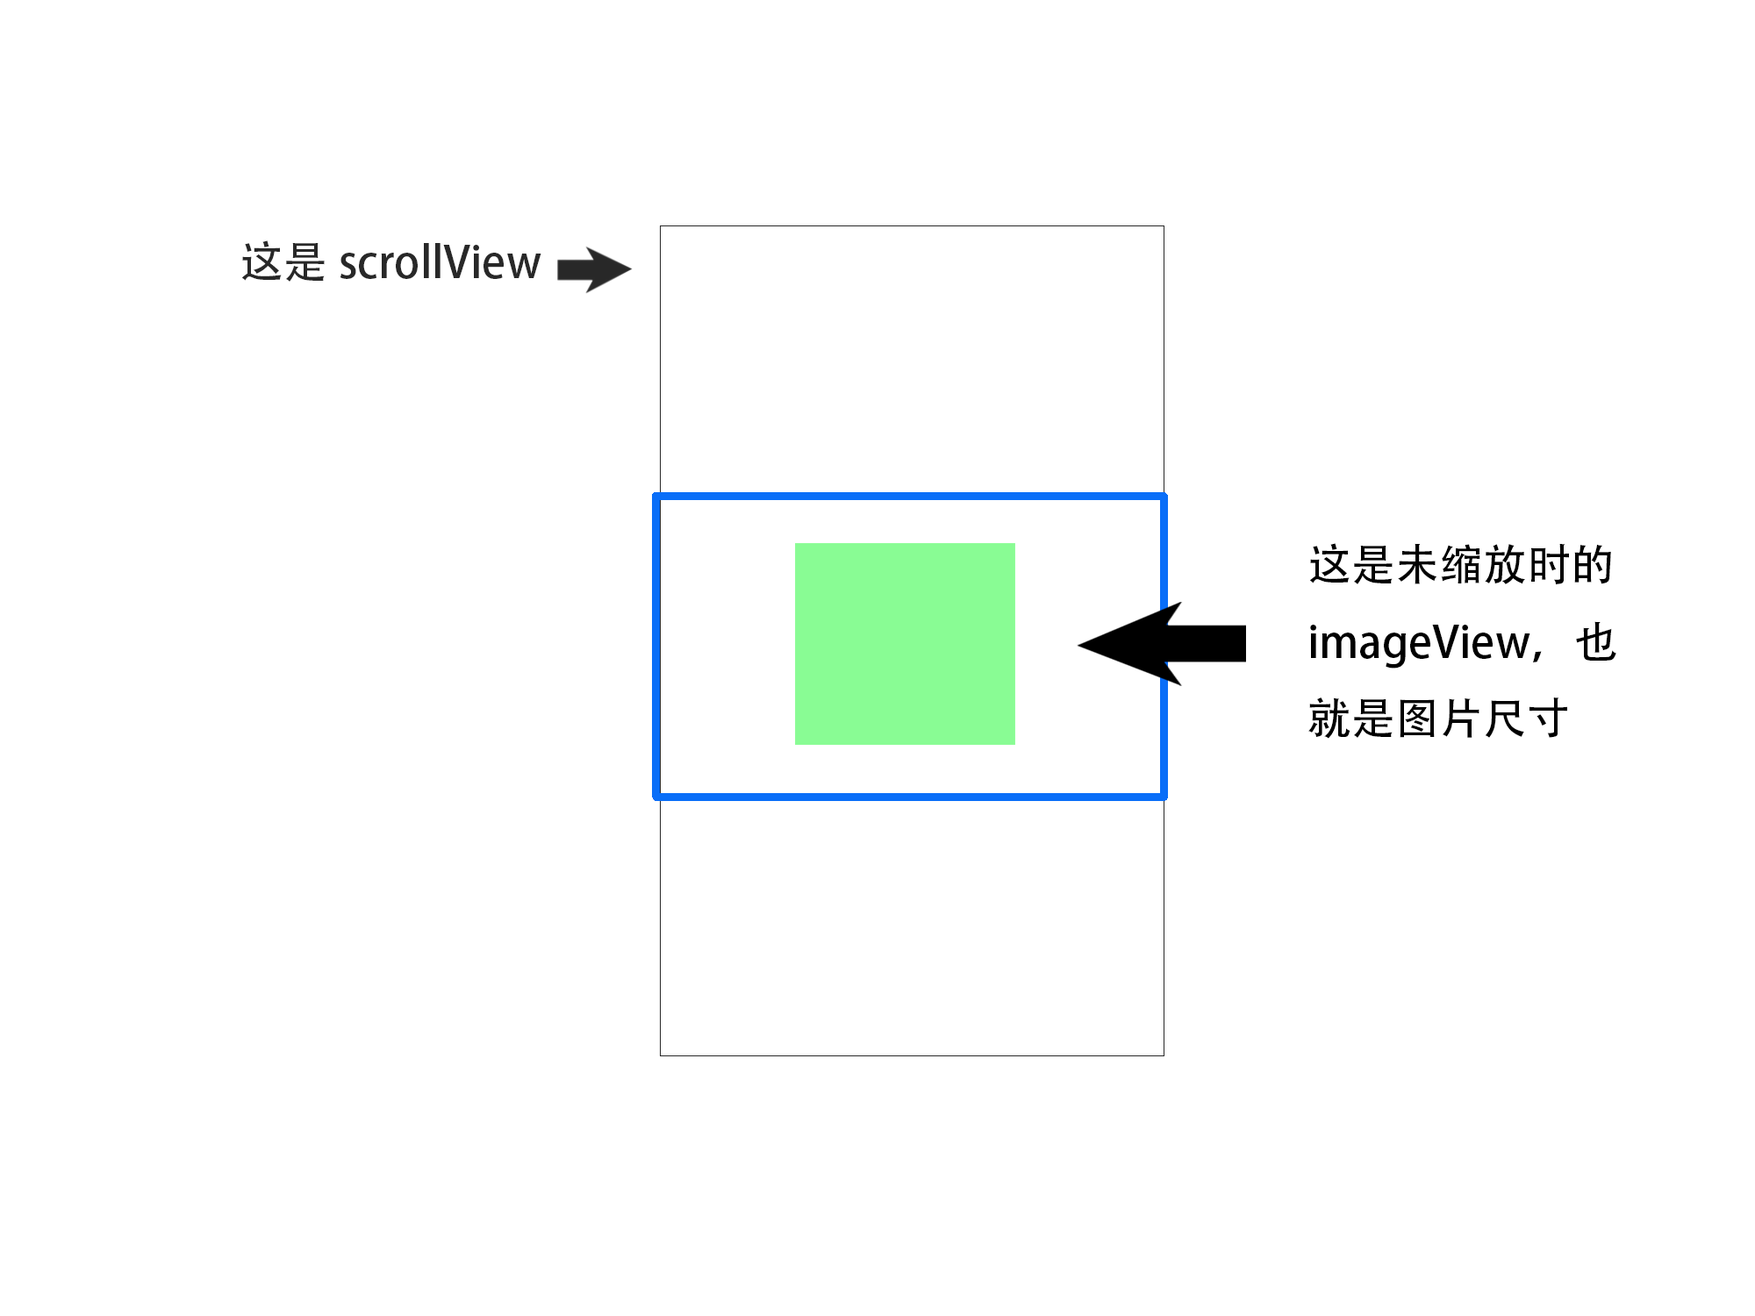
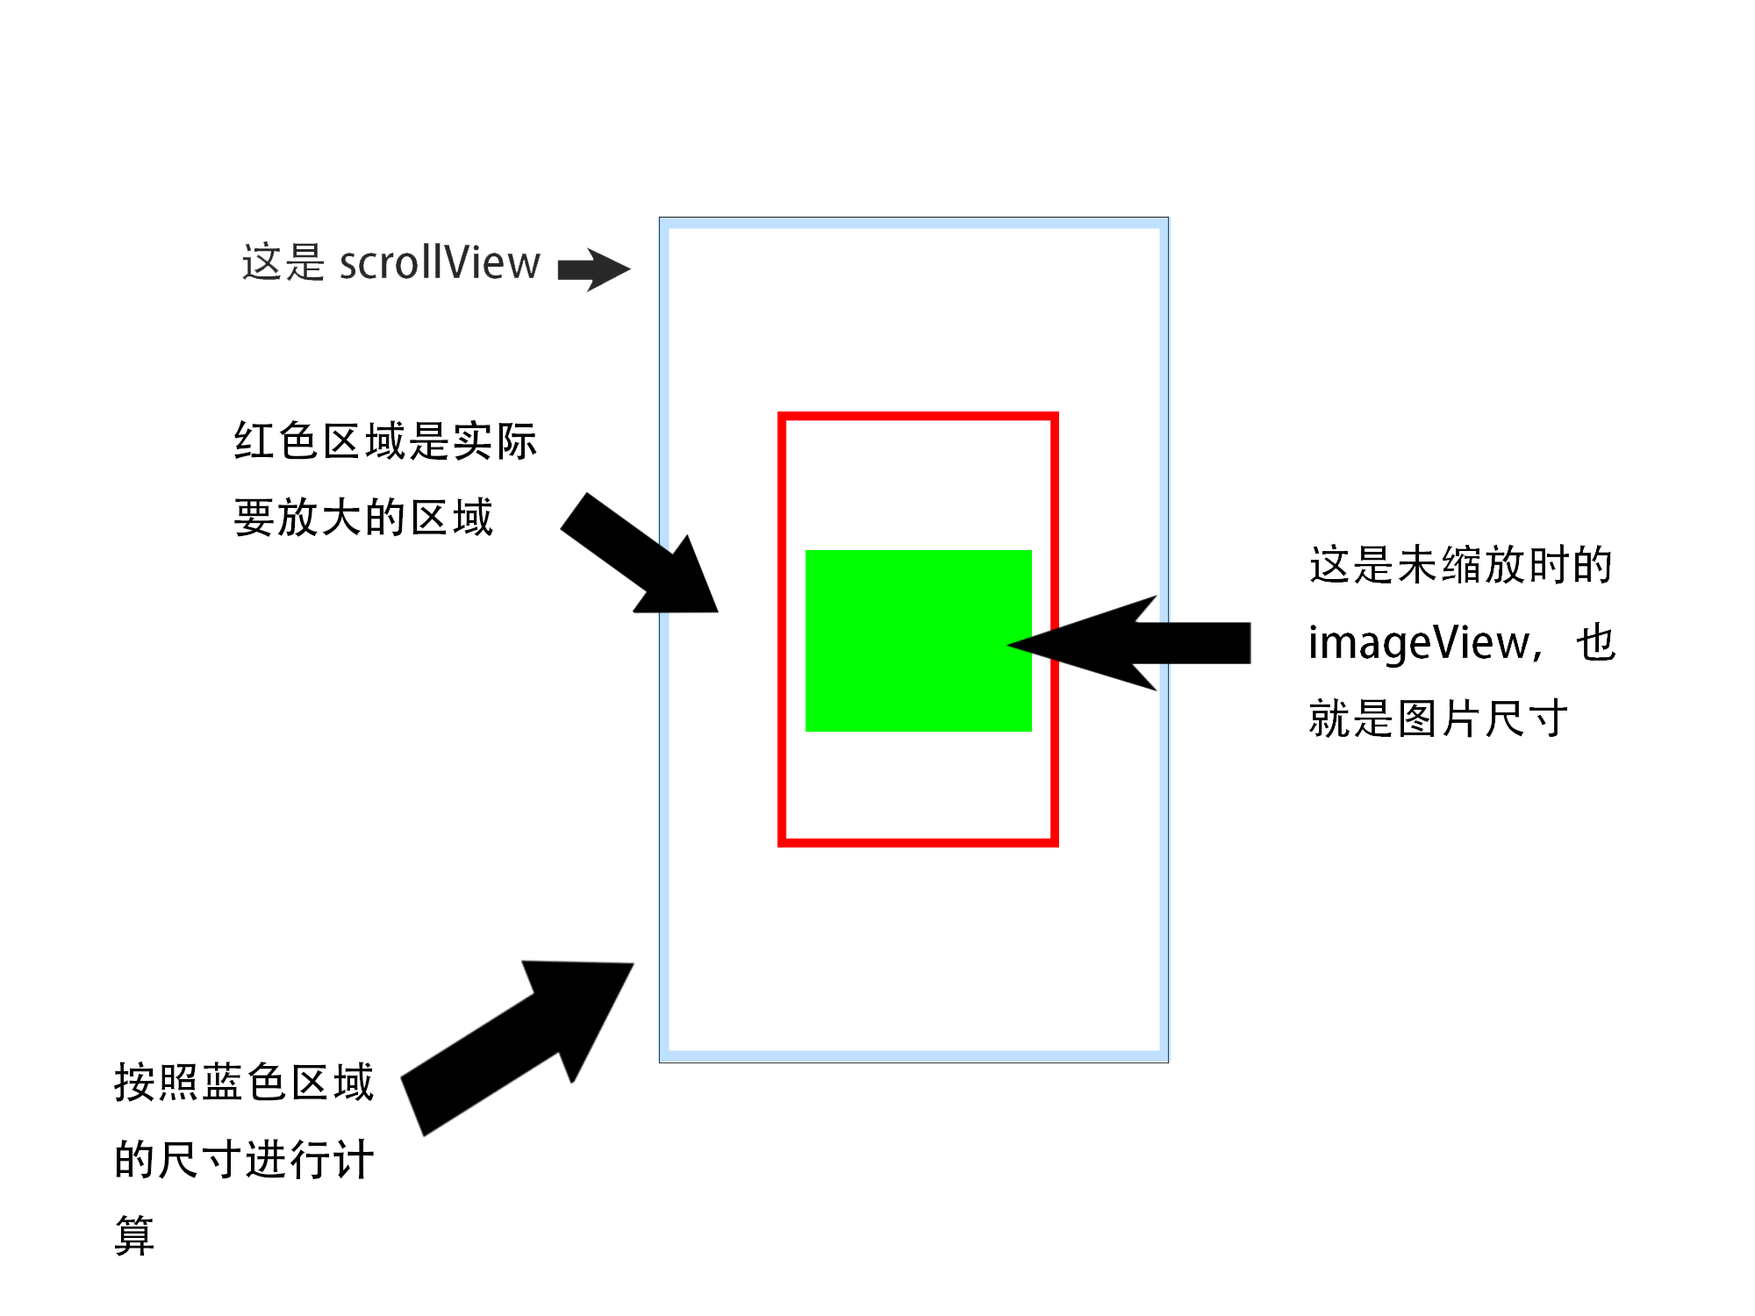
修改文章中的错误

diff --git a/_site/技术/2016/08/02/UIScrollview中的双击图片放大-zoomToRect.html b/_site/技术/2016/08/02/UIScrollview中的双击图片放大-zoomToRect.html
@@ -163,11 +163,12 @@
     <span class="k">let</span> <span class="n">position</span> <span class="o">=</span> <span class="n">tap</span><span class="p">.</span><span class="n">locationInView</span><span class="p">(</span><span class="n">imageView</span><span class="p">)</span>
     
     <span class="c1">//5</span>
-    <span class="k">let</span> <span class="n">zoomWidth</span> <span class="o">=</span> <span class="p">(</span><span class="n">image</span><span class="p">.</span><span class="n">size</span><span class="p">.</span><span class="n">width</span> <span class="o">+</span> <span class="n">imageView</span><span class="p">.</span><span class="n">frame</span><span class="p">.</span><span class="n">minX</span> <span class="o">*</span> <span class="mi">2</span><span class="p">)</span> <span class="o">/</span> <span class="n">zoomRectScale</span>
-    <span class="k">let</span> <span class="n">zoomHeight</span> <span class="o">=</span> <span class="p">(</span><span class="n">image</span><span class="p">.</span><span class="n">size</span><span class="p">.</span><span class="n">height</span> <span class="o">+</span> <span class="n">imageView</span><span class="p">.</span><span class="n">frame</span><span class="p">.</span><span class="n">minY</span> <span class="o">*</span> <span class="mi">2</span><span class="p">)</span> <span class="o">/</span> <span class="n">zoomRectScale</span>
+    <span class="k">let</span> <span class="n">zoomWidth</span> <span class="o">=</span> <span class="n">frame</span><span class="p">.</span><span class="n">width</span> <span class="o">/</span> <span class="n">zoomScale</span> <span class="o">/</span> <span class="n">zoomRectScale</span>
+    <span class="k">let</span> <span class="n">zoomHeight</span> <span class="o">=</span> <span class="n">frame</span><span class="p">.</span><span class="n">height</span> <span class="o">/</span> <span class="n">zoomScale</span> <span class="o">/</span> <span class="n">zoomRectScale</span>
     <span class="c1">//6</span>
-    <span class="k">let</span> <span class="n">zoomX</span> <span class="o">=</span> <span class="n">position</span><span class="p">.</span><span class="n">x</span> <span class="o">-</span> <span class="n">zoomWidth</span> <span class="o">/</span> <span class="mi">2</span> <span class="o">-</span> <span class="n">imageView</span><span class="p">.</span><span class="n">frame</span><span class="p">.</span><span class="n">minX</span> <span class="o">/</span> <span class="n">zoomRectScale</span>
-    <span class="k">let</span> <span class="n">zoomY</span> <span class="o">=</span> <span class="n">position</span><span class="p">.</span><span class="n">y</span> <span class="o">-</span> <span class="n">zoomHeight</span> <span class="o">/</span> <span class="mi">2</span> <span class="o">-</span> <span class="n">imageView</span><span class="p">.</span><span class="n">frame</span><span class="p">.</span><span class="n">minY</span> <span class="o">/</span> <span class="n">zoomRectScale</span>
+    <span class="k">let</span> <span class="n">zoomX</span> <span class="o">=</span> <span class="n">position</span><span class="p">.</span><span class="n">x</span> <span class="o">-</span> <span class="n">zoomWidth</span> <span class="o">/</span> <span class="mi">2</span> <span class="o">-</span> <span class="n">imageView</span><span class="p">.</span><span class="n">frame</span><span class="p">.</span><span class="n">minX</span> <span class="o">/</span> <span class="n">zoomScale</span> <span class="o">/</span> <span class="n">zoomRectScale</span>
+    <span class="k">let</span> <span class="n">zoomY</span> <span class="o">=</span> <span class="n">position</span><span class="p">.</span><span class="n">y</span> <span class="o">-</span> <span class="n">zoomHeight</span> <span class="o">/</span> <span class="mi">2</span> <span class="o">-</span> <span class="n">imageView</span><span class="p">.</span><span class="n">frame</span><span class="p">.</span><span class="n">minY</span> <span class="o">/</span> <span class="n">zoomScale</span> <span class="o">/</span> <span class="n">zoomRectScale</span>
+
     <span class="c1">//7</span>
     <span class="n">zoomToRect</span><span class="p">(</span><span class="bp">CGRect</span><span class="p">(</span><span class="nl">x</span><span class="p">:</span> <span class="n">zoomX</span><span class="p">,</span> <span class="nl">y</span><span class="p">:</span> <span class="n">zoomY</span><span class="p">,</span> <span class="nl">width</span><span class="p">:</span> <span class="n">zoomWidth</span><span class="p">,</span> <span class="nl">height</span><span class="p">:</span> <span class="n">zoomHeight</span><span class="p">),</span> <span class="nl">animated</span><span class="p">:</span> <span class="nb">true</span><span class="p">)</span>
     
@@ -184,15 +185,15 @@
 先看图：
 <img src="/assets/source/2016-8-5-3.png" width="48%" style="float: left; margin-right:2%" />
 <img src="/assets/source/2016-8-5-4.png" width="48%" style="margin-right:2%" />
-先来算宽度，我们把放大的比例设为2（这个比例为我们的变量<code>zoomRectScale</code>，而不是<code>zoomScale</code>），那么假如我们要把图片放大1倍（也就是不变），显示在<code>scrollView</code>中的是整张图片，所以当放大1倍时，这个宽度为图片的宽度；同理，当放大2倍时，显示在<code>scrollView</code>中的部分的宽度为1倍时的1/2，也就是图片宽度的一半，即<code>image.size.width/ zoomRectScale</code>。
-当然这里指的是当图片的尺寸比<code>scrollView</code>大的情况，但是当图片很小的时候，极端一点，一张<code>10*10</code>的图片，当放大两倍时需要把长度为5放大到屏幕宽，显然不是2倍。所以如下图，我们需要把蓝色框部分当做一张图片，也就是说周围的空白也当做图片的一部分，来进行放大，就得到<code>(image.size.width + imageView.frame.minX * 2) / zoomRectScale</code>。高度也是同理
+先来算宽度，我们把放大的比例设为2（这个比例为我们的变量<code>zoomRectScale</code>，而不是<code>zoomScale</code>），那么假如我们要把图片放大1倍（也就是不变），显示在<code>scrollView</code>中的是整张图片，所以当放大1倍时，这个宽度为图片的宽度；同理，当放大2倍时，显示在<code>scrollView</code>中的部分的宽度为1倍时的1/2，也就是图片宽度的一半，即<code>image.size.width / zoomRectScale</code>。
+当然这里指的是当图片的尺寸比<code>scrollView</code>大的情况，但是当图片很小的时候，极端一点，一张<code>10*10</code>的图片，当放大时需要把长度为5（宽度的1/2）放大到屏幕宽，显然不是2倍。所以如下图，我们需要把蓝色框部分当做一张图片来进行放大，就得到<code>(image.size.width + imageView.frame.minX / zoomScale * 2) / zoomRectScale</code>，由于<code>image.size.width</code>等价于<code>imageView.frame.width / zoomScale</code>，所以也就是<code>frame.width / zoomScale / zoomRectScale</code>（<code>frame.width</code>为<code>scrollView</code>的宽度）。高度也是同理
 <img src="/assets/source/2016-8-5-5.png" width="70%" />。</li>
   <li>再来计算<code>origin</code>，现在我们有了中点坐标，也就是<code>position</code>，也有了宽度，那么<code>zoomX</code>就很容易计算，<code>position.x - zoomWidth / 2</code>，<code>zoomY</code>同理。
 但是这里有一个特殊情况，就是当一张图片其长宽都小于<code>scrollView</code>，但是放大后的长或宽大于<code>scrollView</code>长或宽的的时候，放大图片后，图片偏左。如下图（为了方便观察，我把scrollView的长和宽都缩小1/2，这样可以看到超出的部分。右图是双击图片中点放大后的样子）：                       <br />
 <img src="/assets/source/2016-8-5-6.png" width="48%" style="float: left; margin-right:2%" />
 <img src="/assets/source/2016-8-5-7.png" width="48%" style="margin-right:2%" />
 那么这是为什么呢，我也不知道，真的不知道，只是发现当执行<code>zoomScale</code>之后，<code>scrollView</code>的<code>contentOffset</code>会比预期的值增加了<code>imageView.frame.minX</code>，也就是说上方右图的<code>imageView</code>向左距中心偏移的值等于上方左图中<code>imageView</code>的<code>frame.minX</code>，但是我不知道为什么。
-先来看这个问题怎么解决吧，既然<code>scrollView</code>的<code>contentOffset</code>增加了，使得图片向左移动了，就导致图片的左侧的一部分被遮住了，那么我们选取的放大区域就需要向左移动一点，也就是计算<code>zoomX</code>的时候可以减去一个值来调整位置。由于图片在放大后偏移了<code>imageView.frame.minX</code>，而且放大倍数为2，那么在未放大时需要向左调整的距离就为<code>imageView.frame.minX / zoomRectScale</code>，所以就需要<code>position.x - zoomWidth / 2 - imageView.frame.minX / zoomRectScale</code>。<code>zoomY</code>同理</li>
+先来看这个问题怎么解决吧，既然<code>scrollView</code>的<code>contentOffset</code>增加了，使得图片向左移动了，就导致图片的左侧的一部分被遮住了，那么我们选取的放大区域就需要向左移动一点，也就是计算<code>zoomX</code>的时候可以减去一个值来调整位置。由于图片在放大后偏移了<code>imageView.frame.minX</code>，而且放大倍数为2，那么在未放大时需要向左调整的距离就为<code>imageView.frame.minX / zoomScale / zoomRectScale</code>，所以就需要<code>position.x - zoomWidth / 2 - imageView.frame.minX / zoomScale / zoomRectScale</code>。<code>zoomY</code>同理</li>
   <li>执行缩放</li>
 </ol>
 
@@ -200,9 +201,9 @@
 
 <p><strong>Github链接</strong></p>
 
-<p><a href="https://github.com/fanyinan/WZPhotoBrowser">此文章Demo</a></p>
+<p><a href="https://github.com/fanyinan/WZPhotoBrowser">图片浏览器Demo</a></p>
 
-<p><a href="https://github.com/fanyinan/ZoomImageScrollViewDemo">图片浏览器Demo</a></p>
+<p><a href="https://github.com/fanyinan/ZoomImageScrollViewDemo">此文章Demo</a></p>
 
         </section>
 
@@ -254,7 +255,7 @@
     <footer class="site-footer clearfix">
       <section class="copyright">
         <a href="/">顽主の博客</a> &copy; 
-              2017-04-29 12:36 &bull; All rights reserved.
+              2017-04-29 16:24 &bull; All rights reserved.
       </section>
       <section class="poweredby">Made with Jekyll using 
         <a href="http://github.com/rosario/kasper">Kasper theme</a>

diff --git a/_site/index.html b/_site/index.html
@@ -184,7 +184,7 @@
     <footer class="site-footer clearfix">
       <section class="copyright">
         <a href="/">顽主の博客</a> &copy; 
-              2017-04-29 12:36 &bull; All rights reserved.
+              2017-04-29 16:24 &bull; All rights reserved.
       </section>
       <section class="poweredby">Made with Jekyll using 
         <a href="http://github.com/rosario/kasper">Kasper theme</a>

diff --git a/_site/技术/2015/12/02/记此博客的诞生.html b/_site/技术/2015/12/02/记此博客的诞生.html
@@ -199,7 +199,7 @@
     <footer class="site-footer clearfix">
       <section class="copyright">
         <a href="/">顽主の博客</a> &copy; 
-              2017-04-29 12:36 &bull; All rights reserved.
+              2017-04-29 16:24 &bull; All rights reserved.
       </section>
       <section class="poweredby">Made with Jekyll using 
         <a href="http://github.com/rosario/kasper">Kasper theme</a>

diff --git a/_site/技术/2015/12/18/一个拼图游戏的实现.html b/_site/技术/2015/12/18/一个拼图游戏的实现.html
@@ -453,7 +453,7 @@
     <footer class="site-footer clearfix">
       <section class="copyright">
         <a href="/">顽主の博客</a> &copy; 
-              2017-04-29 12:36 &bull; All rights reserved.
+              2017-04-29 16:24 &bull; All rights reserved.
       </section>
       <section class="poweredby">Made with Jekyll using 
         <a href="http://github.com/rosario/kasper">Kasper theme</a>

diff --git a/_site/技术/2015/12/29/浅谈UIImageOrientation(一).html b/_site/技术/2015/12/29/浅谈UIImageOrientation(一).html
@@ -256,7 +256,7 @@
     <footer class="site-footer clearfix">
       <section class="copyright">
         <a href="/">顽主の博客</a> &copy; 
-              2017-04-29 12:36 &bull; All rights reserved.
+              2017-04-29 16:24 &bull; All rights reserved.
       </section>
       <section class="poweredby">Made with Jekyll using 
         <a href="http://github.com/rosario/kasper">Kasper theme</a>

diff --git a/_site/技术/2016/01/07/浅谈UIImageOrientation(二).html b/_site/技术/2016/01/07/浅谈UIImageOrientation(二).html
@@ -169,7 +169,7 @@
     <footer class="site-footer clearfix">
       <section class="copyright">
         <a href="/">顽主の博客</a> &copy; 
-              2017-04-29 12:36 &bull; All rights reserved.
+              2017-04-29 16:24 &bull; All rights reserved.
       </section>
       <section class="poweredby">Made with Jekyll using 
         <a href="http://github.com/rosario/kasper">Kasper theme</a>

diff --git a/_site/about.html b/_site/about.html
@@ -49,7 +49,7 @@
     <footer class="site-footer clearfix">
       <section class="copyright">
         <a href="/">顽主の博客</a> &copy; 
-              2017-04-29 12:36 &bull; All rights reserved.
+              2017-04-29 16:24 &bull; All rights reserved.
       </section>
       <section class="poweredby">Made with Jekyll using 
         <a href="http://github.com/rosario/kasper">Kasper theme</a>

diff --git a/_posts/2016-8-2-UIScrollview中的双击图片放大——zoomToRect.md b/_posts/2016-8-2-UIScrollview中的双击图片放大——zoomToRect.md
@@ -118,11 +118,12 @@ __第五步的代码__
     let position = tap.locationInView(imageView)
     
     //5
-    let zoomWidth = (image.size.width + imageView.frame.minX * 2) / zoomRectScale
-    let zoomHeight = (image.size.height + imageView.frame.minY * 2) / zoomRectScale
+    let zoomWidth = frame.width / zoomScale / zoomRectScale
+    let zoomHeight = frame.height / zoomScale / zoomRectScale
     //6
-    let zoomX = position.x - zoomWidth / 2 - imageView.frame.minX / zoomRectScale
-    let zoomY = position.y - zoomHeight / 2 - imageView.frame.minY / zoomRectScale
+    let zoomX = position.x - zoomWidth / 2 - imageView.frame.minX / zoomScale / zoomRectScale
+    let zoomY = position.y - zoomHeight / 2 - imageView.frame.minY / zoomScale / zoomRectScale
+
     //7
     zoomToRect(CGRect(x: zoomX, y: zoomY, width: zoomWidth, height: zoomHeight), animated: true)
     
@@ -140,15 +141,15 @@ __第五步的代码__
 先看图：
 <img src="{{page.imagePrefix}}3.png" width="48%" style="float: left; margin-right:2%">
 <img src="{{page.imagePrefix}}4.png" width="48%" style="margin-right:2%">
-先来算宽度，我们把放大的比例设为2（这个比例为我们的变量`zoomRectScale`，而不是`zoomScale`），那么假如我们要把图片放大1倍（也就是不变），显示在`scrollView`中的是整张图片，所以当放大1倍时，这个宽度为图片的宽度；同理，当放大2倍时，显示在`scrollView`中的部分的宽度为1倍时的1/2，也就是图片宽度的一半，即`image.size.width/ zoomRectScale`。
-当然这里指的是当图片的尺寸比`scrollView`大的情况，但是当图片很小的时候，极端一点，一张`10*10`的图片，当放大两倍时需要把长度为5放大到屏幕宽，显然不是2倍。所以如下图，我们需要把蓝色框部分当做一张图片，也就是说周围的空白也当做图片的一部分，来进行放大，就得到`(image.size.width + imageView.frame.minX * 2) / zoomRectScale`。高度也是同理
+先来算宽度，我们把放大的比例设为2（这个比例为我们的变量`zoomRectScale`，而不是`zoomScale`），那么假如我们要把图片放大1倍（也就是不变），显示在`scrollView`中的是整张图片，所以当放大1倍时，这个宽度为图片的宽度；同理，当放大2倍时，显示在`scrollView`中的部分的宽度为1倍时的1/2，也就是图片宽度的一半，即`image.size.width / zoomRectScale`。
+当然这里指的是当图片的尺寸比`scrollView`大的情况，但是当图片很小的时候，极端一点，一张`10*10`的图片，当放大时需要把长度为5（宽度的1/2）放大到屏幕宽，显然不是2倍。所以如下图，我们需要把蓝色框部分当做一张图片来进行放大，就得到`(image.size.width + imageView.frame.minX / zoomScale * 2) / zoomRectScale`，由于`image.size.width`等价于`imageView.frame.width / zoomScale`，所以也就是`frame.width / zoomScale / zoomRectScale`（`frame.width`为`scrollView`的宽度）。高度也是同理
 <img src="{{page.imagePrefix}}5.png" width="70%">。
 6. 再来计算`origin`，现在我们有了中点坐标，也就是`position`，也有了宽度，那么`zoomX`就很容易计算，`position.x - zoomWidth / 2`，`zoomY`同理。
 但是这里有一个特殊情况，就是当一张图片其长宽都小于`scrollView`，但是放大后的长或宽大于`scrollView`长或宽的的时候，放大图片后，图片偏左。如下图（为了方便观察，我把scrollView的长和宽都缩小1/2，这样可以看到超出的部分。右图是双击图片中点放大后的样子）：                         
 <img src="{{page.imagePrefix}}6.png" width="48%" style="float: left; margin-right:2%">
 <img src="{{page.imagePrefix}}7.png" width="48%" style="margin-right:2%">
 那么这是为什么呢，我也不知道，真的不知道，只是发现当执行`zoomScale`之后，`scrollView`的`contentOffset`会比预期的值增加了`imageView.frame.minX`，也就是说上方右图的`imageView`向左距中心偏移的值等于上方左图中`imageView`的`frame.minX`，但是我不知道为什么。
-先来看这个问题怎么解决吧，既然`scrollView`的`contentOffset`增加了，使得图片向左移动了，就导致图片的左侧的一部分被遮住了，那么我们选取的放大区域就需要向左移动一点，也就是计算`zoomX`的时候可以减去一个值来调整位置。由于图片在放大后偏移了`imageView.frame.minX`，而且放大倍数为2，那么在未放大时需要向左调整的距离就为`imageView.frame.minX / zoomRectScale`，所以就需要`position.x - zoomWidth / 2 - imageView.frame.minX / zoomRectScale`。`zoomY`同理
+先来看这个问题怎么解决吧，既然`scrollView`的`contentOffset`增加了，使得图片向左移动了，就导致图片的左侧的一部分被遮住了，那么我们选取的放大区域就需要向左移动一点，也就是计算`zoomX`的时候可以减去一个值来调整位置。由于图片在放大后偏移了`imageView.frame.minX`，而且放大倍数为2，那么在未放大时需要向左调整的距离就为`imageView.frame.minX / zoomScale / zoomRectScale`，所以就需要`position.x - zoomWidth / 2 - imageView.frame.minX / zoomScale / zoomRectScale`。`zoomY`同理
 7. 执行缩放
 
 就酱
@@ -156,6 +157,6 @@ __第五步的代码__
 
 **Github链接**
 
-[此文章Demo]({{page.github1}})
+[图片浏览器Demo]({{page.github1}})
 
-[图片浏览器Demo]({{page.github2}})
+[此文章Demo]({{page.github2}})
